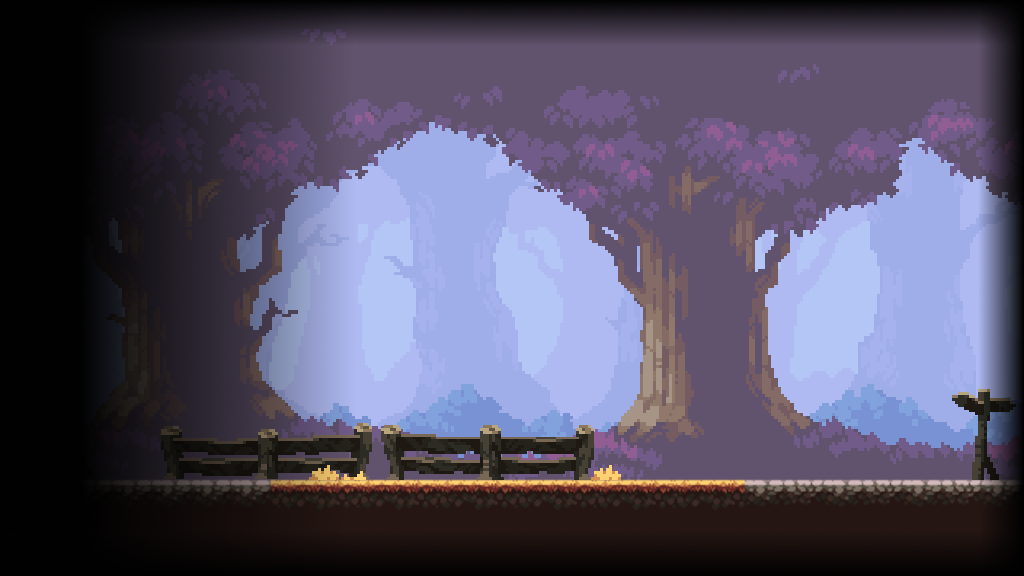
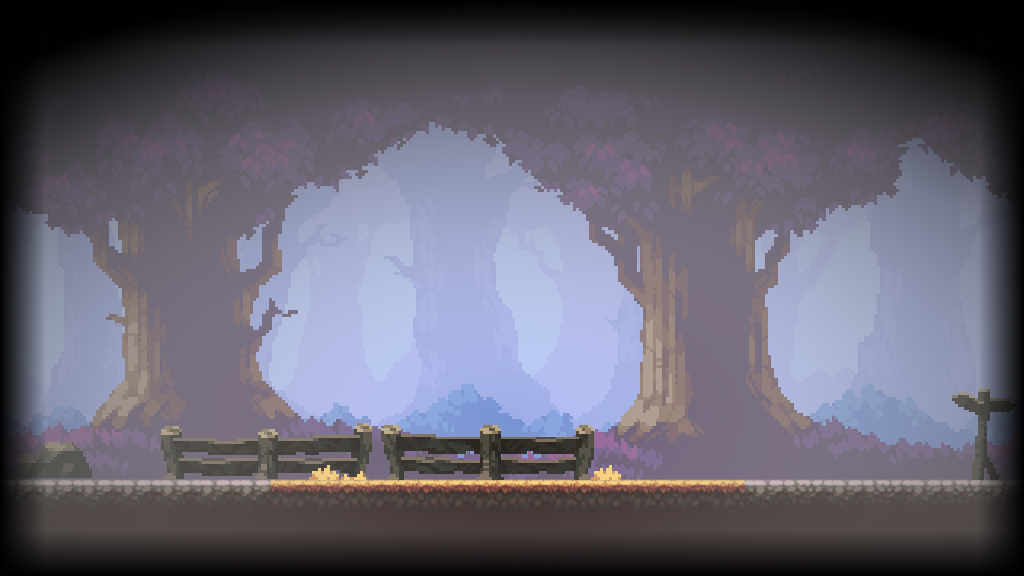
centered
for testing made loading much faster

diff --git a/index.js b/index.js
@@ -14,10 +14,7 @@ setTimeout(() => {
 
   // 👇 removes element from DOM
   loadingScreen.style.display = 'none'
-
-  // 👇 hides element (still takes up space on page)
-  // loadingScreen.style.visibility = 'hidden';
-}, 4800) // 👈 time in milliseconds
+}, 100) // 👈 time in milliseconds
 
 const background = new Sprite({
   position: {
@@ -183,7 +180,7 @@ function animate() {
   c.fillRect(0, 0, canvas.width, canvas.height)
   background.update()
   shop.update()
-  c.fillStyle = 'rgba(255, 255, 255, 0.15)'
+  c.fillStyle = 'rgba(255, 255, 255, 0)' //opacity of background
   c.fillRect(0, 0, canvas.width, canvas.height)
   player.update()
   enemy.update()

diff --git a/index.html b/index.html
@@ -12,7 +12,8 @@
     }
   </style>
 </head>
-<body style="background-color: #232323">
+<body style="background-color: #000">
+  <div style="width: 1024; margin: 0 auto;">
   <div id="loadingScreen" style="position:absolute; z-index: 999;">
     <img src="./img/loading.gif" style="width:1024px;">
   </div>
@@ -184,4 +185,5 @@
   <script src="js/utils.js"></script>
   <script src="js/classes.js"></script>
   <script src="index.js"></script>
+</div>
 </body>
